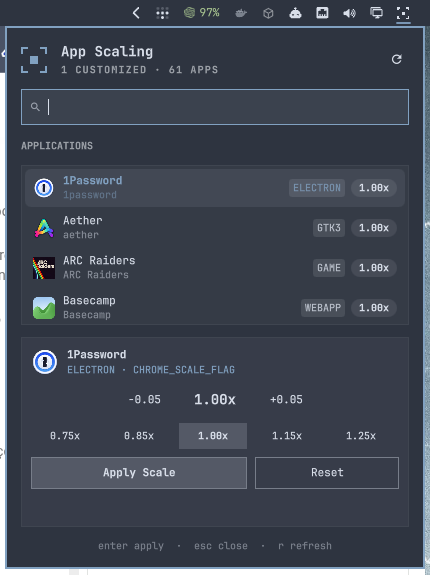
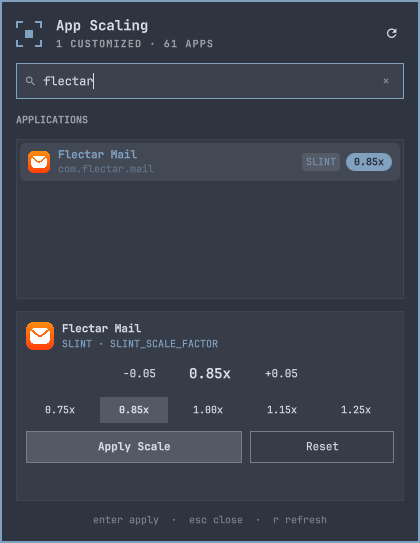
fix: clarify saved scale behavior and refresh documentation screenshots

diff --git a/AppDpiWidget.qml b/AppDpiWidget.qml
@@ -76,7 +76,12 @@ Panel {
       var parsed = JSON.parse(raw);
       if (Array.isArray(parsed)) {
         root.allApps = parsed;
+        var previousAppId = root.selectedApp ? root.selectedApp.id : "";
+        var previousStatus = root.statusMessage;
         root.applyFilter();
+        if (root.selectedApp && root.selectedApp.id === previousAppId) {
+          root.statusMessage = previousStatus;
+        }
       }
     } catch (e) {
       console.warn("AppDpi: failed to parse apps list JSON:", e);
@@ -113,7 +118,7 @@ Panel {
 
   function setScale(scale) {
     if (!root.selectedApp || actionProc.running) return;
-    root.statusMessage = "Applying scale...";
+    root.statusMessage = "Saving launcher scale...";
     root.isError = false;
     var target = Math.round(scale * 100) / 100;
     actionProc.command = ["omarchy-app-scaling", "set", root.selectedApp.id, target.toFixed(2), "--json"];
@@ -171,7 +176,7 @@ Panel {
         try {
           var res = JSON.parse(text);
           if (res.success) {
-            root.statusMessage = "Configuration saved. Restart application to apply.";
+            root.statusMessage = "Launcher scale saved. Fully quit (including tray), then relaunch through the desktop launcher. Direct shortcuts may bypass this.";
             root.isError = false;
             root.loadApps();
           } else {
@@ -443,7 +448,7 @@ Panel {
         // Applications List (height ~160)
         Rectangle {
           width: parent.width
-          height: Style.space(160)
+          height: Math.max(0, Style.space(160) - Math.max(0, selectedAppCard.height - selectedAppCard.implicitHeight))
           radius: Style.cornerRadius
           color: root.tintColor(root.foreground, 0.04)
           border.color: root.tintColor(root.foreground, 0.10)
@@ -597,8 +602,10 @@ Panel {
 
         // Selected App Card & Controls
         Rectangle {
+          id: selectedAppCard
           width: parent.width
-          height: !selectedApp ? Style.space(50) : (selectedApp.toolkit === "webapp" ? Style.space(170) : (selectedApp.toolkit === "game" ? Style.space(140) : (selectedApp.toolkit === "unrecognized" || selectedApp.toolkit === "unknown" ? Style.space(255) : Style.space(190))))
+          implicitHeight: !selectedApp ? Style.space(50) : (selectedApp.toolkit === "webapp" ? Style.space(170) : (selectedApp.toolkit === "game" ? Style.space(140) : (selectedApp.toolkit === "unrecognized" || selectedApp.toolkit === "unknown" ? Style.space(255) : Style.space(190))))
+          height: root.selectedApp ? Math.max(implicitHeight, selectedAppContent.implicitHeight + Style.space(20)) : implicitHeight
           radius: Style.cornerRadius
           color: root.tintColor(root.foreground, 0.05)
           border.color: root.tintColor(root.foreground, 0.10)
@@ -619,6 +626,7 @@ Panel {
           }
 
           Column {
+            id: selectedAppContent
             anchors.fill: parent
             anchors.margins: Style.space(10)
             spacing: Style.space(8)
@@ -899,7 +907,7 @@ Panel {
                 opacity: root.isError ? 1.0 : 0.8
                 font.family: root.fontFamily
                 font.pixelSize: Style.font.caption
-                elide: Text.ElideRight
+                wrapMode: Text.Wrap
                 width: parent.width
               }
             }

diff --git a/src/cli.ts b/src/cli.ts
@@ -120,7 +120,7 @@ export function main(): void {
             JSON.stringify(
               {
                 success: true,
-                message: `Set scale to ${scale}x for ${updated.name}`,
+                message: `Saved launcher scale ${scale}x for ${updated.name}`,
                 app: updated,
               },
               null,
@@ -128,10 +128,13 @@ export function main(): void {
             ),
           );
         } else {
-          console.log(`✓ Set scale to ${scale}x for ${updated.name} (${updated.id})`);
+          console.log(`✓ Saved launcher scale ${scale}x for ${updated.name} (${updated.id})`);
           console.log(`  Updated: ${updated.desktopPath}`);
           console.log(`  Exec:    ${updated.exec}`);
-          console.log("  Restart the application to apply the new scaling.");
+          console.log(
+            "  Fully quit the application, including its tray icon, then relaunch through the desktop launcher.",
+          );
+          console.log("  Direct app shortcuts may bypass the saved launcher override.");
         }
         break;
       }

diff --git a/README.md b/README.md
@@ -5,9 +5,9 @@ Per-application scaling manager popover for [Omarchy](https://omarchy.org/) Linu
 Allows overriding the UI scaling factor of individual applications without altering global monitor scaling. Automatically inspects ELF binaries and wrapper scripts to detect application toolkits deterministically and injects the optimal scaling environment variable or command-line flag into user desktop entries (`~/.local/share/applications/*.desktop`).
 
 <p align="center">
-  <img src="screenshots/overview.png" alt="App Scaling Overview" width="400" />
+  <img src="screenshots/overview.png" alt="App Scaling application list with the current square-dot icon" width="400" />
   &nbsp;&nbsp;
-  <img src="screenshots/custom-scaling.png" alt="Custom Scale & Filter" width="400" />
+  <img src="screenshots/custom-scaling.png" alt="Flectar Mail configured at 0.85x with Slint scaling controls" width="400" />
 </p>
 
 ---
@@ -25,6 +25,15 @@ Allows overriding the UI scaling factor of individual applications without alter
 | **WebApps / PWAs** | `omarchy-launch-webapp`, `--app=` flag, `chrome-*` class | In-browser zoom (`Ctrl +` / `Ctrl -` / `Ctrl 0`) |
 | **Java** (AWT/Swing/JavaFX) | Executable `java` or `libjvm.so` | `-Dsun.java2d.uiScale=<scale>` |
 | **Unrecognized Engine** | Unidentified binaries or custom engines | `UNIVERSAL_FALLBACK`: Injects markers for every supported engine (`QT_SCALE_FACTOR`, `GDK_DPI_SCALE`, `SLINT_SCALE_FACTOR`), with no guarantees |
+
+### WebApps
+
+WebApps use browser zoom rather than managed scaling flags. Selecting one shows the keyboard shortcuts instead of scale controls:
+
+<p align="center">
+  <img src="screenshots/webapp-zoom.png" alt="Discord identified as a WebApp with Ctrl +, Ctrl -, and Ctrl 0 zoom guidance" width="400" />
+</p>
+
 
 ---
 
@@ -97,6 +106,18 @@ omarchy-app-scaling set google-chrome 1.25
 ```bash
 omarchy-app-scaling reset com.flectar.mail
 ```
+
+### Applying a Saved Scale
+
+The saved scale describes the application's `.desktop` launch settings, not a measured scale of its running windows. Fully quit the application (including its tray/background instance), then launch it through its desktop entry to apply the setting. Closing a window may leave the application running.
+
+Omarchy's packaged 1Password hotkey (`SUPER + SHIFT + SLASH`) uses a launcher that hardcodes `--force-device-scale-factor=1`, bypassing the saved desktop setting. Replace only that binding in `~/.config/hypr/bindings.lua`:
+
+```lua
+o.rebind("SUPER + SHIFT + SLASH", "Passwords", "uwsm-app -- gtk-launch 1password.desktop")
+```
+
+This resolves the user desktop override when present, or the system desktop entry otherwise. Direct binary launches and autostart commands may still bypass desktop settings. This launch-path correction is not a claim that 1Password's visual scaling has been verified.
 
 ---
 
